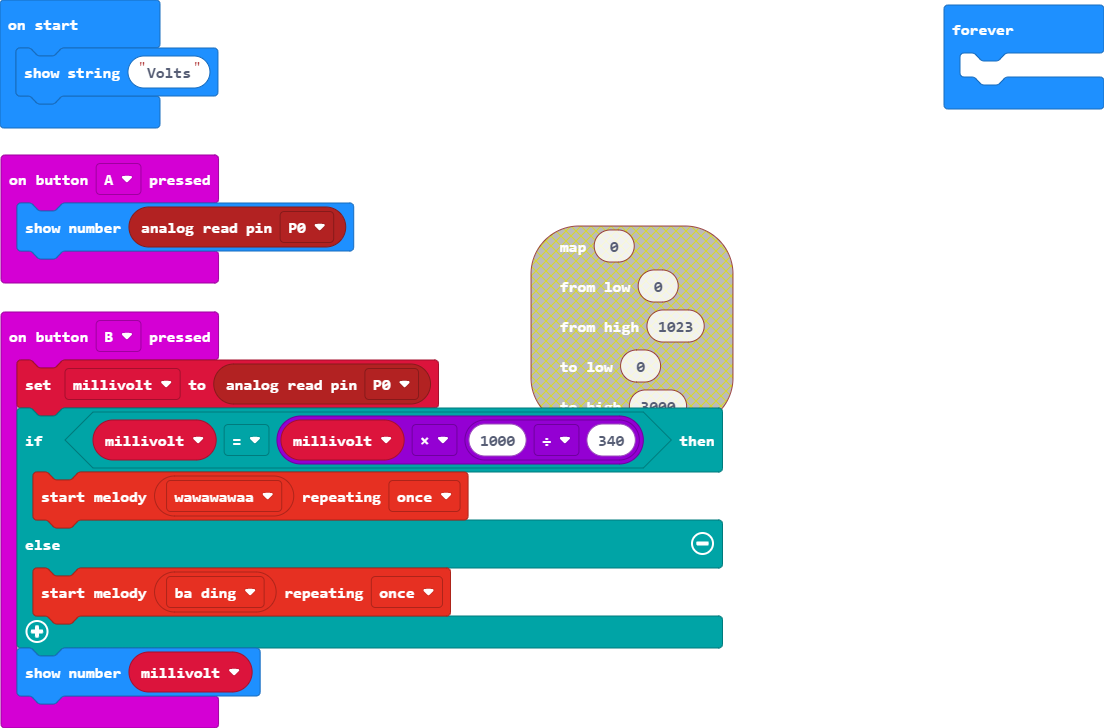
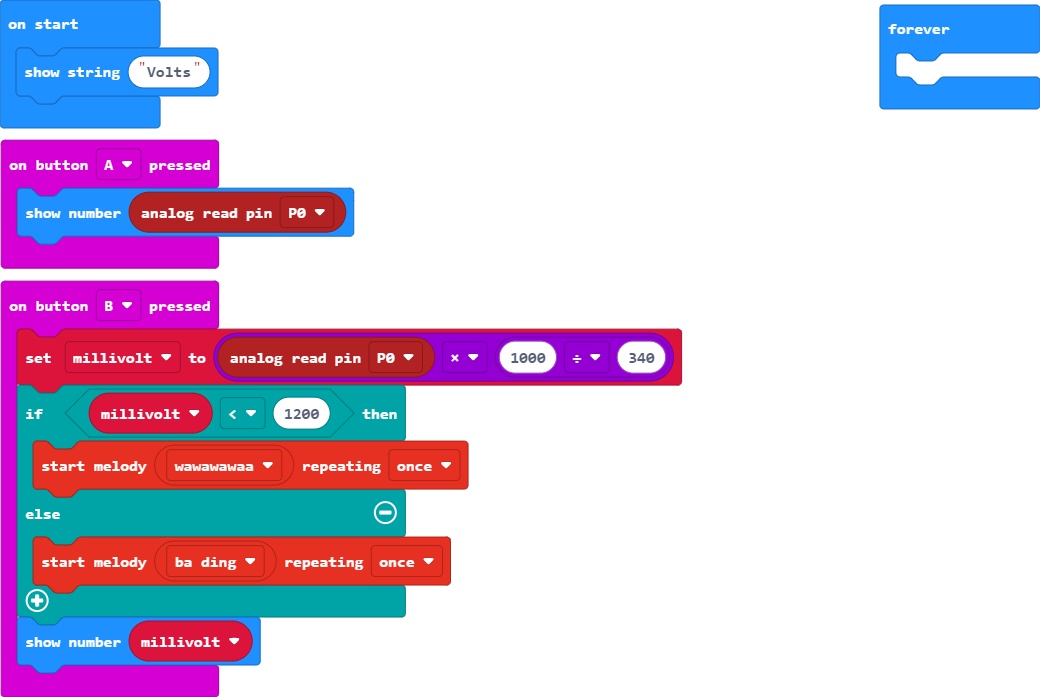
Update main.blocks, main.ts

Changed region(s): [[0.0, 0.0, 0.6769, 1.0], [0.8308, 0.0, 1.0, 0.1808]]

diff --git a/main.ts b/main.ts
@@ -2,8 +2,8 @@ input.onButtonPressed(Button.A, function () {
     basic.showNumber(pins.analogReadPin(AnalogPin.P0))
 })
 input.onButtonPressed(Button.B, function () {
-    millivolt = pins.analogReadPin(AnalogPin.P0)
-    if (millivolt == millivolt * (1000 / 340)) {
+    millivolt = pins.analogReadPin(AnalogPin.P0) * (1000 / 340)
+    if (millivolt < 1200) {
         music.startMelody(music.builtInMelody(Melodies.Wawawawaa), MelodyOptions.Once)
     } else {
         music.startMelody(music.builtInMelody(Melodies.BaDing), MelodyOptions.Once)
